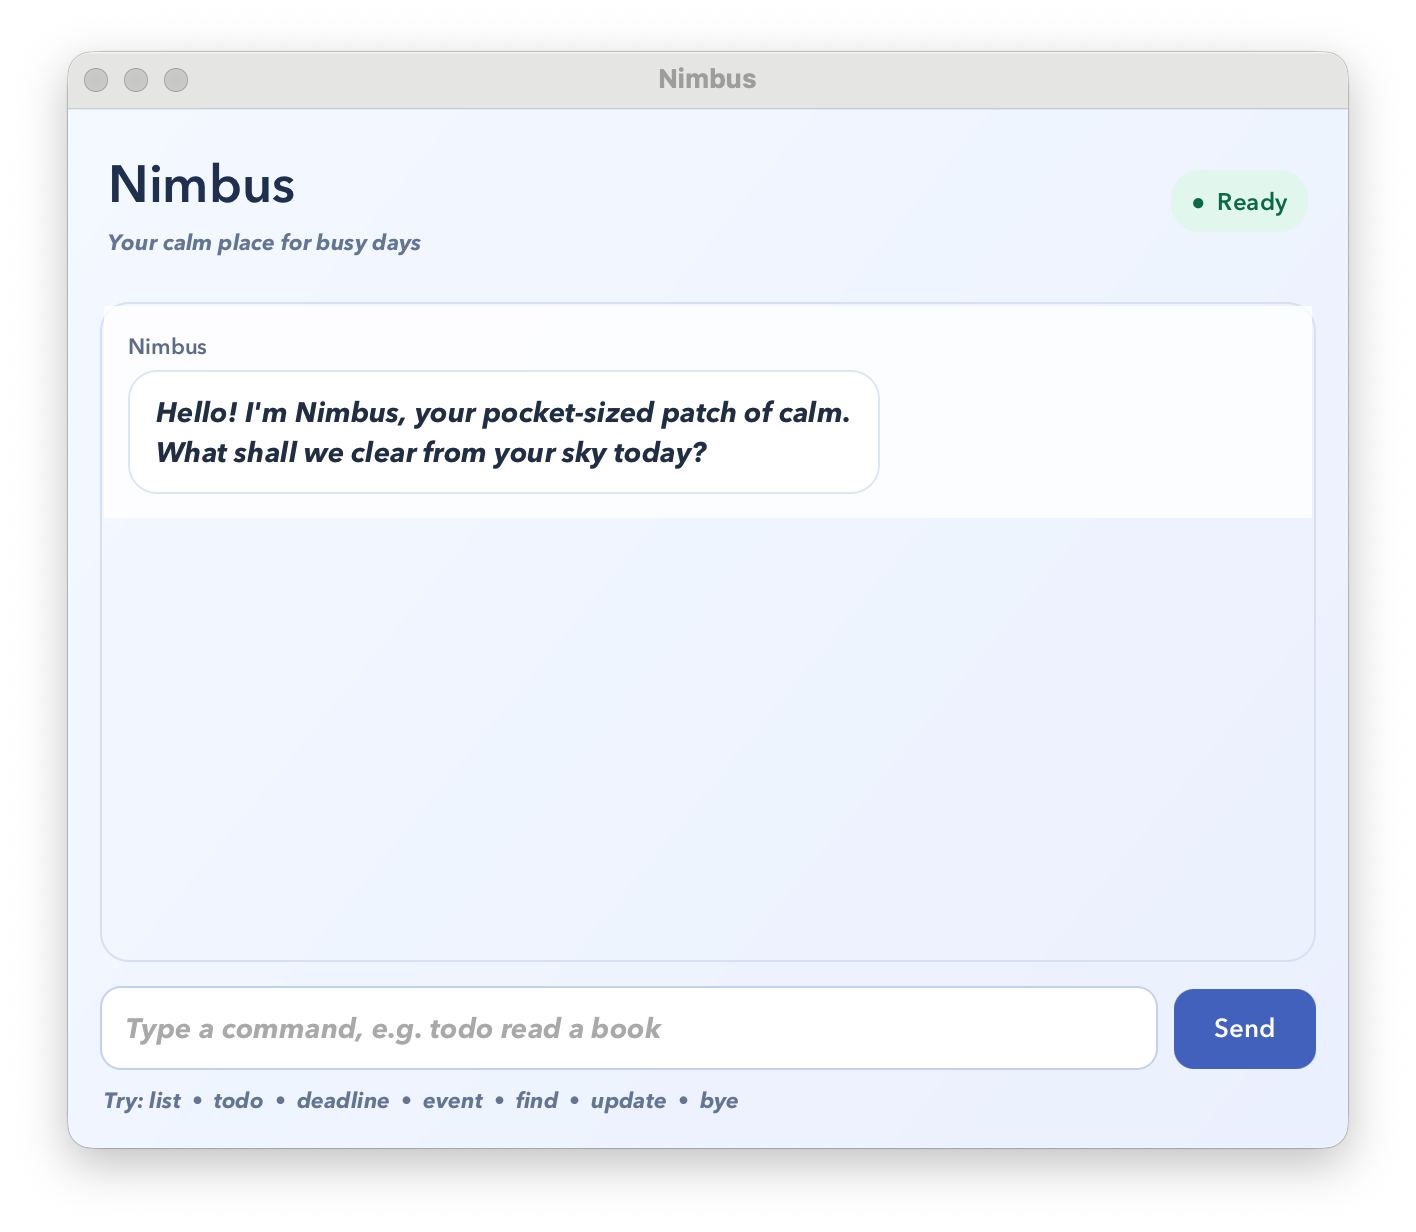
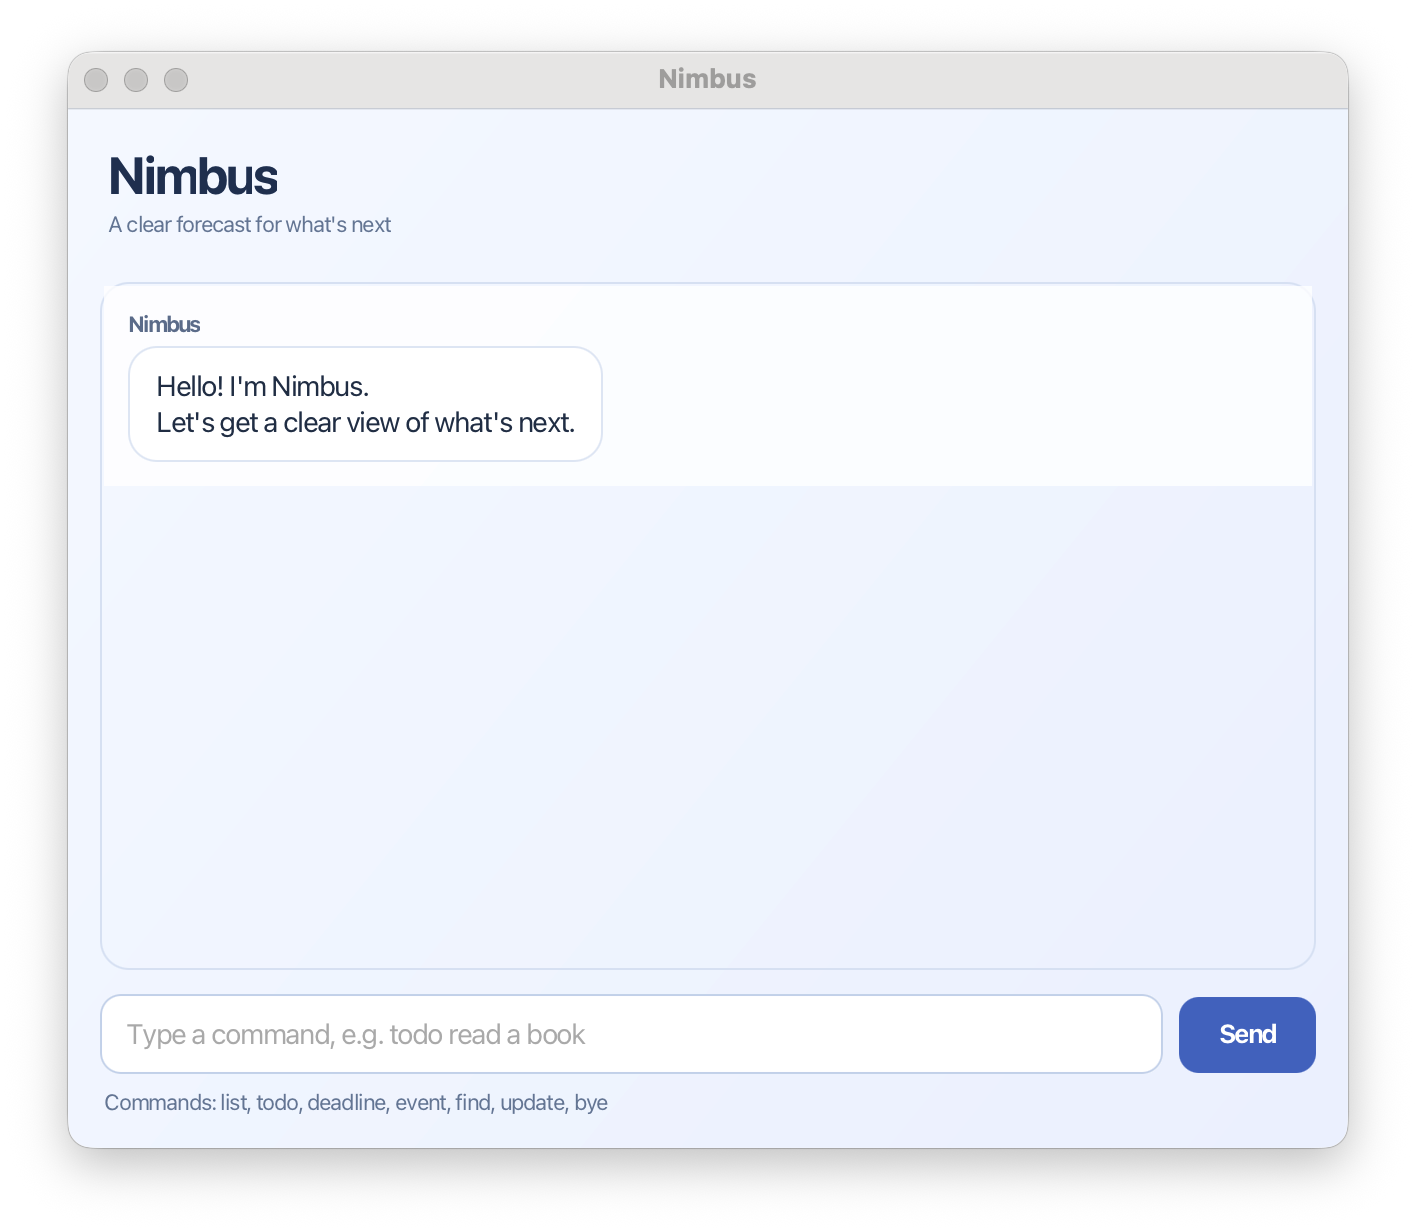
Refine Nimbus as an academic task forecast
Adopt the clearer forecast positioning across the interface and guides. Reduce weather metaphors in routine responses, remove decorative status and command dots, and use the system font for a cleaner native appearance.

diff --git a/src/main/resources/nimbus/style.css b/src/main/resources/nimbus/style.css
@@ -1,6 +1,6 @@
 .app-root {
     -fx-background-color: linear-gradient(to bottom right, #f6f9ff, #eef2ff);
-    -fx-font-family: "Avenir Next", "Segoe UI", sans-serif;
+    -fx-font-family: "System";
 }
 
 .header {
@@ -17,15 +17,6 @@
 .app-subtitle, .command-hint {
     -fx-font-size: 11px;
     -fx-text-fill: #71809f;
-}
-
-.status-label {
-    -fx-background-color: #e7f8ef;
-    -fx-background-radius: 14;
-    -fx-padding: 6 10;
-    -fx-text-fill: #237451;
-    -fx-font-size: 12px;
-    -fx-font-weight: bold;
 }
 
 .dialog-scroll-pane, .dialog-scroll-pane > .viewport {

diff --git a/src/main/java/nimbus/Nimbus.java b/src/main/java/nimbus/Nimbus.java
@@ -20,8 +20,7 @@ import nimbus.ui.Ui;
 
 /** Runs Nimbus, a personal task assistant. */
 public class Nimbus {
-    private static final String WELCOME_MESSAGE = "Hello! I'm Nimbus, your pocket-sized patch of calm.\n"
-            + "What shall we clear from your sky today?";
+    private static final String WELCOME_MESSAGE = "Hello! I'm Nimbus.\nLet's get a clear view of what's next.";
     private static final String LOAD_WARNING = "A little fog rolled in while I loaded your saved tasks. "
             + "We'll start with a clear list.";
     private static final String DAMAGED_RECORD_WARNING = "I recovered your tasks but skipped %d damaged "
@@ -82,20 +81,20 @@ public class Nimbus {
     public Response getResponseWithStatus(String input) {
         assert input != null : "Command input must not be null";
         if (input.isBlank()) {
-            return new Response("A little turbulence: Please type a command.", false);
+            return new Response("Please type a command.", false);
         }
         ParsedCommand command = parser.parse(input);
         if (command.type() == CommandType.BYE) {
-            return new Response("The sky is clear for now. See you next time!", true);
+            return new Response("All set for now. See you next time!", true);
         }
         try {
             String message = execute(command);
             storage.save(tasks.asList());
             return new Response(message, false);
         } catch (NimbusException e) {
-            return new Response("A little turbulence: " + e.getMessage(), false);
+            return new Response("I couldn't do that: " + e.getMessage(), false);
         } catch (IOException e) {
-            return new Response("I couldn't secure your tasks in the cloud bank: " + e.getMessage(), false);
+            return new Response("I couldn't save your tasks: " + e.getMessage(), false);
         }
     }
 
@@ -125,19 +124,19 @@ public class Nimbus {
     private String markTaskAsDone(String argument) throws NimbusException {
         Task task = tasks.get(parseTaskNumber(argument));
         task.markAsDone();
-        return "One cloud cleared! I've marked this task as done:\n  " + task;
+        return "Done. I've marked this task as completed:\n  " + task;
     }
 
     private String markTaskAsNotDone(String argument) throws NimbusException {
         Task task = tasks.get(parseTaskNumber(argument));
         task.markAsNotDone();
-        return "No worries—this task is back on the horizon:\n  " + task;
+        return "I've marked this task as not completed:\n  " + task;
     }
 
     private String deleteTask(String argument) throws NimbusException {
         Task task = tasks.delete(parseTaskNumber(argument));
-        return "Consider it blown away. I've removed this task:\n  " + task
-                + "\nYour sky now holds " + tasks.size() + " tasks.";
+        return "I've removed this task:\n  " + task
+                + "\nYou now have " + tasks.size() + " tasks.";
     }
 
     private String updateTask(String argument) throws NimbusException {
@@ -150,7 +149,7 @@ public class Nimbus {
         requireNonEmpty(description, "Give the task a new description.");
         Task task = tasks.get(taskNumber);
         task.setDescription(description);
-        return "Fresh forecast! I've updated this task:\n  " + task;
+        return "I've updated this task:\n  " + task;
     }
 
     private String addTodo(String description) throws NimbusException {
@@ -200,8 +199,8 @@ public class Nimbus {
     private String addTask(Task task) {
         assert task != null : "Task to add must not be null";
         tasks.add(task);
-        return "A new cloud is on the horizon. I've added this task:\n  " + task
-                + "\nYour sky now holds " + tasks.size() + " tasks.";
+        return "I've added this task:\n  " + task
+                + "\nYou now have " + tasks.size() + " tasks.";
     }
 
     private static String formatTasks(String heading, List<Task> tasks) {

diff --git a/src/test/java/nimbus/NimbusTest.java b/src/test/java/nimbus/NimbusTest.java
@@ -33,7 +33,7 @@ class NimbusTest {
 
         String response = nimbus.getResponse("deadline /by 2026-01-01");
 
-        assertEquals("A little turbulence: Use: deadline DESCRIPTION /by YYYY-MM-DD.", response);
+        assertEquals("I couldn't do that: Use: deadline DESCRIPTION /by YYYY-MM-DD.", response);
     }
 
     @Test
@@ -42,7 +42,7 @@ class NimbusTest {
 
         String response = nimbus.getResponse("event /from Monday /to Tuesday");
 
-        assertEquals("A little turbulence: Use: event DESCRIPTION /from START /to END.", response);
+        assertEquals("I couldn't do that: Use: event DESCRIPTION /from START /to END.", response);
     }
 
     @Test
@@ -52,7 +52,7 @@ class NimbusTest {
         Nimbus.Response response = nimbus.getResponseWithStatus("bye now");
 
         assertTrue(response.isExit());
-        assertEquals("The sky is clear for now. See you next time!", response.message());
+        assertEquals("All set for now. See you next time!", response.message());
     }
 
     @Test
@@ -91,7 +91,7 @@ class NimbusTest {
     void getResponse_blankInput_returnsHelpfulError() {
         Nimbus nimbus = new Nimbus(temporaryDirectory.resolve("tasks.txt"));
 
-        assertEquals("A little turbulence: Please type a command.", nimbus.getResponse("   "));
+        assertEquals("Please type a command.", nimbus.getResponse("   "));
     }
 
     @Test
@@ -129,7 +129,7 @@ class NimbusTest {
 
         String response = nimbus.getResponse("deadline submit report /by next Friday");
 
-        assertEquals("A little turbulence: Use a deadline date in YYYY-MM-DD format.", response);
+        assertEquals("I couldn't do that: Use a deadline date in YYYY-MM-DD format.", response);
     }
 
     @Test
@@ -139,7 +139,7 @@ class NimbusTest {
 
         String response = nimbus.getResponse("mark 2");
 
-        assertEquals("A little turbulence: Choose a task number from the list.", response);
+        assertEquals("I couldn't do that: Choose a task number from the list.", response);
     }
 
     @Test

diff --git a/src/main/java/nimbus/Main.java b/src/main/java/nimbus/Main.java
@@ -13,7 +13,6 @@ import javafx.scene.control.TextField;
 import javafx.scene.layout.BorderPane;
 import javafx.scene.layout.HBox;
 import javafx.scene.layout.Priority;
-import javafx.scene.layout.Region;
 import javafx.scene.layout.VBox;
 import javafx.stage.Stage;
 
@@ -27,14 +26,9 @@ public class Main extends Application {
     public void start(Stage stage) {
         Label title = new Label("Nimbus");
         title.getStyleClass().add("app-title");
-        Label subtitle = new Label("Your calm place for busy days");
+        Label subtitle = new Label("A clear forecast for what's next");
         subtitle.getStyleClass().add("app-subtitle");
-        Region headerSpacer = new Region();
-        HBox.setHgrow(headerSpacer, Priority.ALWAYS);
-        Label status = new Label("●  Ready");
-        status.getStyleClass().add("status-label");
-        VBox titleGroup = new VBox(2, title, subtitle);
-        HBox header = new HBox(12, titleGroup, headerSpacer, status);
+        VBox header = new VBox(2, title, subtitle);
         header.getStyleClass().add("header");
 
         ScrollPane dialogScrollPane = new ScrollPane(dialogContainer);
@@ -57,7 +51,7 @@ public class Main extends Application {
         inputBar.getStyleClass().add("input-bar");
         HBox.setHgrow(userInput, Priority.ALWAYS);
 
-        Label hint = new Label("Try: list  •  todo  •  deadline  •  event  •  find  •  update  •  bye");
+        Label hint = new Label("Commands: list, todo, deadline, event, find, update, bye");
         hint.getStyleClass().add("command-hint");
         VBox composer = new VBox(7, inputBar, hint);
 

diff --git a/README.md b/README.md
@@ -1,6 +1,6 @@
 # Nimbus
 
-Nimbus is a calm desktop task assistant for managing todos, deadlines, and events. It stores your tasks locally and gives clear, friendly feedback through a JavaFX chat interface.
+Nimbus is a lightweight student task assistant for managing todos, deadlines, and events. It gives you a clear forecast of what's next through a focused JavaFX interface.
 
 ![Nimbus desktop interface](docs/Ui.png)
 

diff --git a/docs/README.md b/docs/README.md
@@ -1,6 +1,6 @@
 # Nimbus User Guide
 
-Nimbus is a calm desktop assistant that keeps todos, deadlines, and events in one local task list.
+Nimbus is a lightweight student task assistant that keeps todos, deadlines, and events in one local list—a clear forecast of what's next.
 
 ![Nimbus desktop interface](Ui.png)
 
